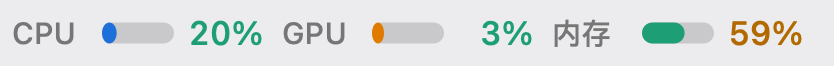
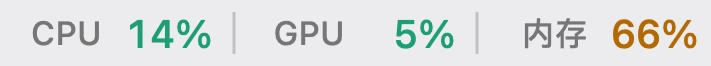
0.2.2: 状态栏重做——分隔线 + 百分比着色默认开启 + 字号放大（合并原 0.2.2/0.2.3）
将原先的 0.2.2 与 0.2.3 两个提交压成一个 0.2.2：

- 字号放大：标签 10→11pt、数值 11→13pt，预留宽同步加宽；面板图表标题共用同款
  字体，已重渲染确认放大后无裁切。
- 进度条改为菜单开关、默认关闭；百分比按占用率着色改为默认开启
  （绿<50% / 琥珀 50-80% / 红≥80%），菜单可关回纯文本。
- 三个指标之间加细竖线分隔，且标签右对齐紧贴自己的百分比，
  解决"哪个数属于哪个指标"的问题（此前数值离自己标签远、却紧贴下一指标标签）。
- 实测主进程 CPU 不变（约 0.26%）：取消进度条省下的被放大文字抵消。
- 截图全部重生成；Info.plist 版本 0.2.3 → 0.2.2。

Changed region(s): [[0.0, 0.2727, 0.9902, 0.7576]]

diff --git a/src/main.swift b/src/main.swift
@@ -4,7 +4,8 @@ import Darwin
 
 // MacMonBar — 菜单栏版 macmon
 //
-// 状态栏：CPU / GPU / 内存 三条进度条 + 温度（默认关闭，可自行打开）
+// 状态栏：CPU / GPU / 内存 百分比 + 温度（默认关闭）；指标间用细竖线分隔
+//          进度条默认关闭（菜单可开启）；百分比按占用率着色默认开启（绿<50% / 琥珀50-80% / 红≥80%）
 // 面板：四项趋势图，2 行 × 2 列；底部默认显示 12 个核的逐核柱状图（可关）
 //
 // 数据来源：
@@ -23,8 +24,8 @@ extension NSColor {
 }
 
 private let kPad: CGFloat = 14          // 面板左右内边距，避免顶到边框
-private let kLabelSmall = NSFont.systemFont(ofSize: 10, weight: .medium)
-private let kValue = NSFont.monospacedDigitSystemFont(ofSize: 11, weight: .medium)
+private let kLabelSmall = NSFont.systemFont(ofSize: 11, weight: .medium)
+private let kValue = NSFont.monospacedDigitSystemFont(ofSize: 13, weight: .medium)
 
 private func isDark(_ v: NSView) -> Bool {
     v.effectiveAppearance.bestMatch(from: [.darkAqua, .aqua]) == .darkAqua
@@ -42,8 +43,8 @@ private func tempColor(_ v: NSView, _ c: Double) -> NSColor {
 }
 
 private func levelColor(_ v: NSView, _ ratio: Double) -> NSColor {
-    if ratio >= 0.75 { return hotColor(v) }
-    if ratio >= 0.40 { return isDark(v) ? NSColor(hex: 0xFFC24A) : NSColor(hex: 0xB26A00) }
+    if ratio >= 0.80 { return hotColor(v) }
+    if ratio >= 0.50 { return isDark(v) ? NSColor(hex: 0xFFC24A) : NSColor(hex: 0xB26A00) }
     return memColor(v)
 }
 
@@ -135,21 +136,40 @@ final class MeterView: NSView {
     var mem: Double = 0
     var temp: Double = 0
     var showTemp = false                 // 默认关闭
+    var showBars = false                 // 默认隐藏状态栏进度条（菜单可开启）
+    var colorPct = true                  // 百分比按占用率着色，默认开启（菜单可关闭）
     var macmonAvailable = true           // false 时 GPU / 内存 / 温度显示"—"
 
     private enum L {
-        static let label: CGFloat = 27    // 需容纳 10pt medium 的 "CPU"/"GPU"，20 会被裁成 "CP"
+        static let label: CGFloat = 30    // 需容纳 11pt medium 的 "CPU"/"内存"
         static let bar: CGFloat = 24
-        static let value: CGFloat = 26
+        static let value: CGFloat = 34    // 容纳 13pt 等宽 "100%"
         static let temp: CGFloat = 34
-        static let gap: CGFloat = 6
-        static var unit: CGFloat { label + 3 + bar + 4 + value + gap }
+        static let gap: CGFloat = 14      // 指标之间的间隔（含分隔线）
+        static let sepH: CGFloat = 14     // 分隔线高度
+    }
+
+    private var unit: CGFloat {
+        let barPart = showBars ? (L.bar + 4) : 0
+        return L.label + 3 + barPart + L.value
     }
 
     var preferredWidth: CGFloat {
-        var w: CGFloat = 4 + L.unit * 3
-        if showTemp { w += L.temp }
-        return w + 4
+        let gaps = showTemp ? 3 : 2
+        return 4 + unit * 3 + L.gap * CGFloat(gaps) + (showTemp ? L.temp : 0) + 4
+    }
+
+    /// 指标之间画一条细竖线分隔，并返回下一个指标起点
+    private func advanceAfter(_ x: CGFloat) -> CGFloat {
+        let nx = x + L.gap
+        let dx = x + L.gap / 2
+        let path = NSBezierPath()
+        path.move(to: NSPoint(x: dx, y: (bounds.height - L.sepH) / 2))
+        path.line(to: NSPoint(x: dx, y: (bounds.height + L.sepH) / 2))
+        path.lineWidth = 1
+        NSColor.labelColor.withAlphaComponent(0.18).setStroke()
+        path.stroke()
+        return nx
     }
 
     override var intrinsicContentSize: NSSize { NSSize(width: preferredWidth, height: 22) }
@@ -157,9 +177,12 @@ final class MeterView: NSView {
     override func draw(_ dirtyRect: NSRect) {
         var x: CGFloat = 4
         x = metric(name: "CPU", ratio: cpu, available: true, series: cpuColor(self), x: x)
+        x = advanceAfter(x)
         x = metric(name: "GPU", ratio: gpu, available: macmonAvailable, series: gpuColor(self), x: x)
+        x = advanceAfter(x)
         x = metric(name: "内存", ratio: mem, available: macmonAvailable, series: memColor(self), x: x)
         if showTemp {
+            x = advanceAfter(x)
             let r = NSRect(x: x, y: 0, width: L.temp, height: bounds.height)
             if macmonAvailable {
                 drawText(String(format: "%.0f°C", temp), in: r, font: kValue, color: tempColor(self, temp), align: .right)
@@ -172,29 +195,35 @@ final class MeterView: NSView {
     /// available = false 表示数据源缺失，显示"—"而不是误导性的 0%
     private func metric(name: String, ratio: Double, available: Bool, series: NSColor, x: CGFloat) -> CGFloat {
         drawText(name, in: NSRect(x: x, y: 0, width: L.label, height: bounds.height),
-                 font: kLabelSmall, color: .secondaryLabelColor)
+                 font: kLabelSmall, color: .secondaryLabelColor, align: .right)
         var cx = x + L.label + 3
 
-        let barRect = NSRect(x: cx, y: bounds.midY - 3.5, width: L.bar, height: 7)
-        NSColor.labelColor.withAlphaComponent(0.15).setFill()
-        NSBezierPath(roundedRect: barRect, xRadius: 3.5, yRadius: 3.5).fill()
-        cx += L.bar + 4
+        if showBars {
+            let barRect = NSRect(x: cx, y: bounds.midY - 3.5, width: L.bar, height: 7)
+            NSColor.labelColor.withAlphaComponent(0.15).setFill()
+            NSBezierPath(roundedRect: barRect, xRadius: 3.5, yRadius: 3.5).fill()
+            if available {
+                let pct = min(max(ratio, 0), 1)
+                if pct > 0.01 {
+                    var f = barRect
+                    f.size.width = max(4, L.bar * CGFloat(pct))
+                    (pct >= 0.80 ? hotColor(self) : series).setFill()
+                    NSBezierPath(roundedRect: f, xRadius: 3.5, yRadius: 3.5).fill()
+                }
+            }
+            cx += L.bar + 4
+        }
 
         let valueRect = NSRect(x: cx, y: 0, width: L.value, height: bounds.height)
         if available {
             let pct = min(max(ratio, 0), 1)
-            if pct > 0.01 {
-                var f = barRect
-                f.size.width = max(4, L.bar * CGFloat(pct))
-                (pct >= 0.75 ? hotColor(self) : series).setFill()
-                NSBezierPath(roundedRect: f, xRadius: 3.5, yRadius: 3.5).fill()
-            }
+            let color = colorPct ? levelColor(self, pct) : NSColor.labelColor
             drawText(String(format: "%.0f%%", pct * 100), in: valueRect,
-                     font: kValue, color: levelColor(self, pct), align: .right)
+                     font: kValue, color: color, align: .right)
         } else {
             drawText("—", in: valueRect, font: kValue, color: .tertiaryLabelColor, align: .right)
         }
-        return cx + L.value + L.gap
+        return cx + L.value
     }
 
     override func viewDidChangeEffectiveAppearance() { needsDisplay = true }
@@ -418,6 +447,16 @@ final class AppDelegate: NSObject, NSApplicationDelegate, NSMenuDelegate {
         tempItem.state = .off                // 默认关闭
         menu.addItem(tempItem)
 
+        let barsItem = NSMenuItem(title: "状态栏显示进度条", action: #selector(toggleBars(_:)), keyEquivalent: "")
+        barsItem.target = self
+        barsItem.state = .off                // 默认隐藏
+        menu.addItem(barsItem)
+
+        let colorItem = NSMenuItem(title: "百分比颜色区分", action: #selector(toggleColor(_:)), keyEquivalent: "")
+        colorItem.target = self
+        colorItem.state = .on                // 默认开启
+        menu.addItem(colorItem)
+
         let intervalItem = NSMenuItem(title: "刷新间隔", action: nil, keyEquivalent: "")
         let sub = NSMenu()
         for ms in [1000, 2000, 5000] {
@@ -449,6 +488,19 @@ final class AppDelegate: NSObject, NSApplicationDelegate, NSMenuDelegate {
         meter.showTemp.toggle()
         sender.state = meter.showTemp ? .on : .off
         statusItem.length = meter.preferredWidth
+        meter.needsDisplay = true
+    }
+
+    @objc private func toggleBars(_ sender: NSMenuItem) {
+        meter.showBars.toggle()
+        sender.state = meter.showBars ? .on : .off
+        statusItem.length = meter.preferredWidth
+        meter.needsDisplay = true
+    }
+
+    @objc private func toggleColor(_ sender: NSMenuItem) {
+        meter.colorPct.toggle()
+        sender.state = meter.colorPct ? .on : .off
         meter.needsDisplay = true
     }
 

diff --git a/README.md b/README.md
@@ -24,9 +24,13 @@ The menu bar is also the only one of the three "widget" options that can actuall
 
 ## Screenshots
 
-Status bar (default — temperature hidden):
+Status bar (default — colour-coded percentages, thin dividers between the three metrics, no gauges, temperature hidden):
 
 ![status bar, light](docs/statusbar-light.png)
+
+Status bar with the optional gauges switched on (colour coding is on by default):
+
+![status bar with gauges, light](docs/statusbar-bars-light.png)
 
 Status bar with temperature enabled:
 
@@ -50,13 +54,15 @@ And if `macmon` is not installed — CPU and per-core still work, the rest degra
 
 ## Features
 
-- **Status bar** — compact CPU / GPU / memory bars with percentages. Temperature is optional and off by default.
+- **Status bar** — CPU / GPU / memory percentages in three groups, separated by thin vertical dividers and with each label right-aligned against its own number, so it is obvious which value belongs to which metric. Temperature is optional and off by default.
+- **Colour-coded percentages.** Each percentage is coloured by its own load — green below 50 %, amber from 50 %, red from 80 % — so a glance tells you what is busy without reading the numbers. On by default; the menu can put it back to plain text.
+- **Optional gauges.** The little level bars are a separate menu toggle, off by default. Plain percentages are the least noisy thing to keep in the corner of your screen all day; the gauges are there for when you want to read a level at a glance rather than a number.
 - **Click to expand** — four full-width area charts in a 2 × 2 grid (CPU, GPU, memory, temperature), each with its current value on the header row, plus a per-core bar row underneath.
 - **Every core is counted.** CPU utilization is sampled by the app itself through Mach `host_processor_info`, so all cores appear — 12 on an M6-class chip. The count is read from the kernel, never hard-coded.
 - **CPU works without macmon.** The sampler runs on its own timer, so a missing macmon costs you GPU / memory / temperature and nothing else. Those three render as `—` rather than `0 %`, and the menu gains a one-click link to the install instructions.
 - **No watts in the status bar.** The status bar is for utilization; wattage was deliberately left out because it does not change the decisions you make while coding.
 - **Refresh interval** — 1 s / 2 s / 5 s, switchable from the menu.
-- **Light and dark** aware, with semantic color thresholds (≥ 75 % turns red, ≥ 40 % amber).
+- **Light and dark** aware, with semantic colour thresholds (green below 50 %, amber from 50 %, red from 80 %).
 - `LSUIElement` — no Dock icon, no window, nothing to switch to.
 - **No dependencies.** AppKit + Foundation + Mach only. No SwiftPM, no Carthage, no SPM packages.
 
@@ -272,6 +278,13 @@ Compile any of them with `swiftc -O tools/<name>.swift -o /tmp/<name>`.
 - Per-core accuracy cross-checked against [mactop](https://github.com/context-labs/mactop).
 
 ## Changelog
+
+### 0.2.2 — 2026-10-13
+
+- **Status bar redesigned.** Fonts are larger (labels 10 → 11 pt, values 11 → 13 pt, with the reserved label/value widths widened to match). The little gauges and the per-metric percentage colouring are now two independent menu toggles: the gauges default to **off**, while the percentages are colour-coded by load **on by default** — green below 50 %, amber from 50 %, red from 80 %.
+- **Dividers between metrics.** Thin vertical dividers now separate CPU / GPU / memory, and each label is right-aligned against its own percentage. This fixes "which number belongs to which metric" — previously the value sat far from its own label yet right up against the next metric's label.
+- **Cost unchanged:** measured main-process CPU is unchanged at ~0.26 % (the ~0.20 % status-bar redraw figure in "Cost decomposition" still holds) — dropping the gauges saves only a few rounded-rect fills, which the larger text offsets.
+- **Docs:** screenshots regenerated against the new defaults, plus a new `statusbar-bars-light.png`; the expanded panel was re-rendered too because it shares the same colour-threshold function.
 
 ### 0.2.1 — 2026-10-13
 

diff --git a/README.zh-CN.md b/README.zh-CN.md
@@ -24,9 +24,13 @@
 
 ## 截图
 
-状态栏（默认状态，不显示温度）：
+状态栏（默认状态：百分比按占用率着色、三个指标间有细竖线分隔、无进度条、不显示温度）：
 
 ![状态栏，浅色](docs/statusbar-light.png)
+
+打开进度条后的状态栏（百分比颜色区分默认已开启）：
+
+![状态栏含进度条，浅色](docs/statusbar-bars-light.png)
 
 打开温度显示后的状态栏：
 
@@ -50,13 +54,15 @@
 
 ## 功能
 
-- **状态栏**——CPU / GPU / 内存三条紧凑进度条，带百分比。温度可选，默认关闭。
+- **状态栏**——CPU / GPU / 内存三个百分比分成三组，之间用细竖线分隔，且每个标签右对齐、紧贴自己的数字，一眼就能看出哪个数属于哪个指标。温度可选，默认关闭。
+- **百分比按占用率着色。** 每个百分比按自身负载着色——低于 50% 绿、50% 起琥珀、80% 起红——扫一眼就知道谁在忙，不用去读数字。默认开启，菜单里可以关回纯文本。
+- **进度条是可选项。** 那几条小进度条是独立的菜单开关，默认关闭。纯百分比是常驻屏幕角落最不打扰的形态；进度条留给你想一眼看出水位、而不是读具体数字的时候。
 - **点击展开**——四张整格宽度面积图排成 2 行 × 2 列（CPU、GPU、内存、温度），当前值直接标在标题行；下方是逐核柱状图。
 - **每一个核都统计到。** CPU 占用率由 App 自己通过 Mach `host_processor_info` 采样，所以所有核都会出现——M6 级别芯片上是 12 个。核数从内核读取，不写死。
 - **没有 macmon 也能看 CPU。** 采样器跑在自己的 Timer 上，所以缺 macmon 只损失 GPU / 内存 / 温度三项，其余不受影响。这三项会显示"—"而不是 0%，菜单里也会多出一条直达安装说明的链接。
 - **状态栏不显示瓦数。** 状态栏只放占用率；功耗对"写代码时该关注什么"这个决策没有帮助，所以刻意去掉了。
 - **刷新间隔**——1 秒 / 2 秒 / 5 秒，菜单里直接切。
-- **自动适配浅色 / 深色**，颜色阈值语义化（≥ 75% 转红，≥ 40% 转琥珀色）。
+- **自动适配浅色 / 深色**，颜色阈值语义化（< 50% 绿、≥ 50% 琥珀、≥ 80% 红）。
 - `LSUIElement`——没有 Dock 图标、没有窗口、不用切换。
 - **无依赖。** 只用 AppKit + Foundation + Mach。没有 SwiftPM、没有 Carthage、没有任何第三方包。
 
@@ -272,6 +278,13 @@ view.draw(view.bounds)
 - 逐核精度与 [mactop](https://github.com/context-labs/mactop) 交叉验证。
 
 ## 更新记录
+
+### 0.2.2 — 2026-10-13
+
+- **状态栏重做。** 字号放大——标签 10 → 11 pt，数值 11 → 13 pt——并相应加宽标签与数值的预留宽度（这两个字体同时决定展开面板图表标题的字号，面板已重渲染确认无裁切）。那几条小进度条与百分比按占用率着色，现在是两个互相独立的菜单开关：进度条默认关闭；百分比着色**默认开启**——低于 50% 绿、50% 起琥珀、80% 起红。
+- **指标间加分隔线。** 三个指标之间加了细竖线分隔，且每个标签右对齐、紧贴自己的百分比，解决了"哪个数属于哪个指标"的问题——此前数值离自己的标签很远，却离下一个指标的标签只有 6pt。
+- **开销不变**：新默认不画进度条，每秒重绘本应略省，但放大的文字把省下的吃回去了。实测主进程 CPU 仍是约 0.26%（"开销分解"里约 0.20% 的状态栏重绘数字依然成立）。
+- **文档**：按新默认重新生成截图，并新增 `statusbar-bars-light.png` 展示开启进度条（着色默认开）后的样子；面板因共用同一阈值函数也一并重渲染。
 
 ### 0.2.1 — 2026-10-13
 
